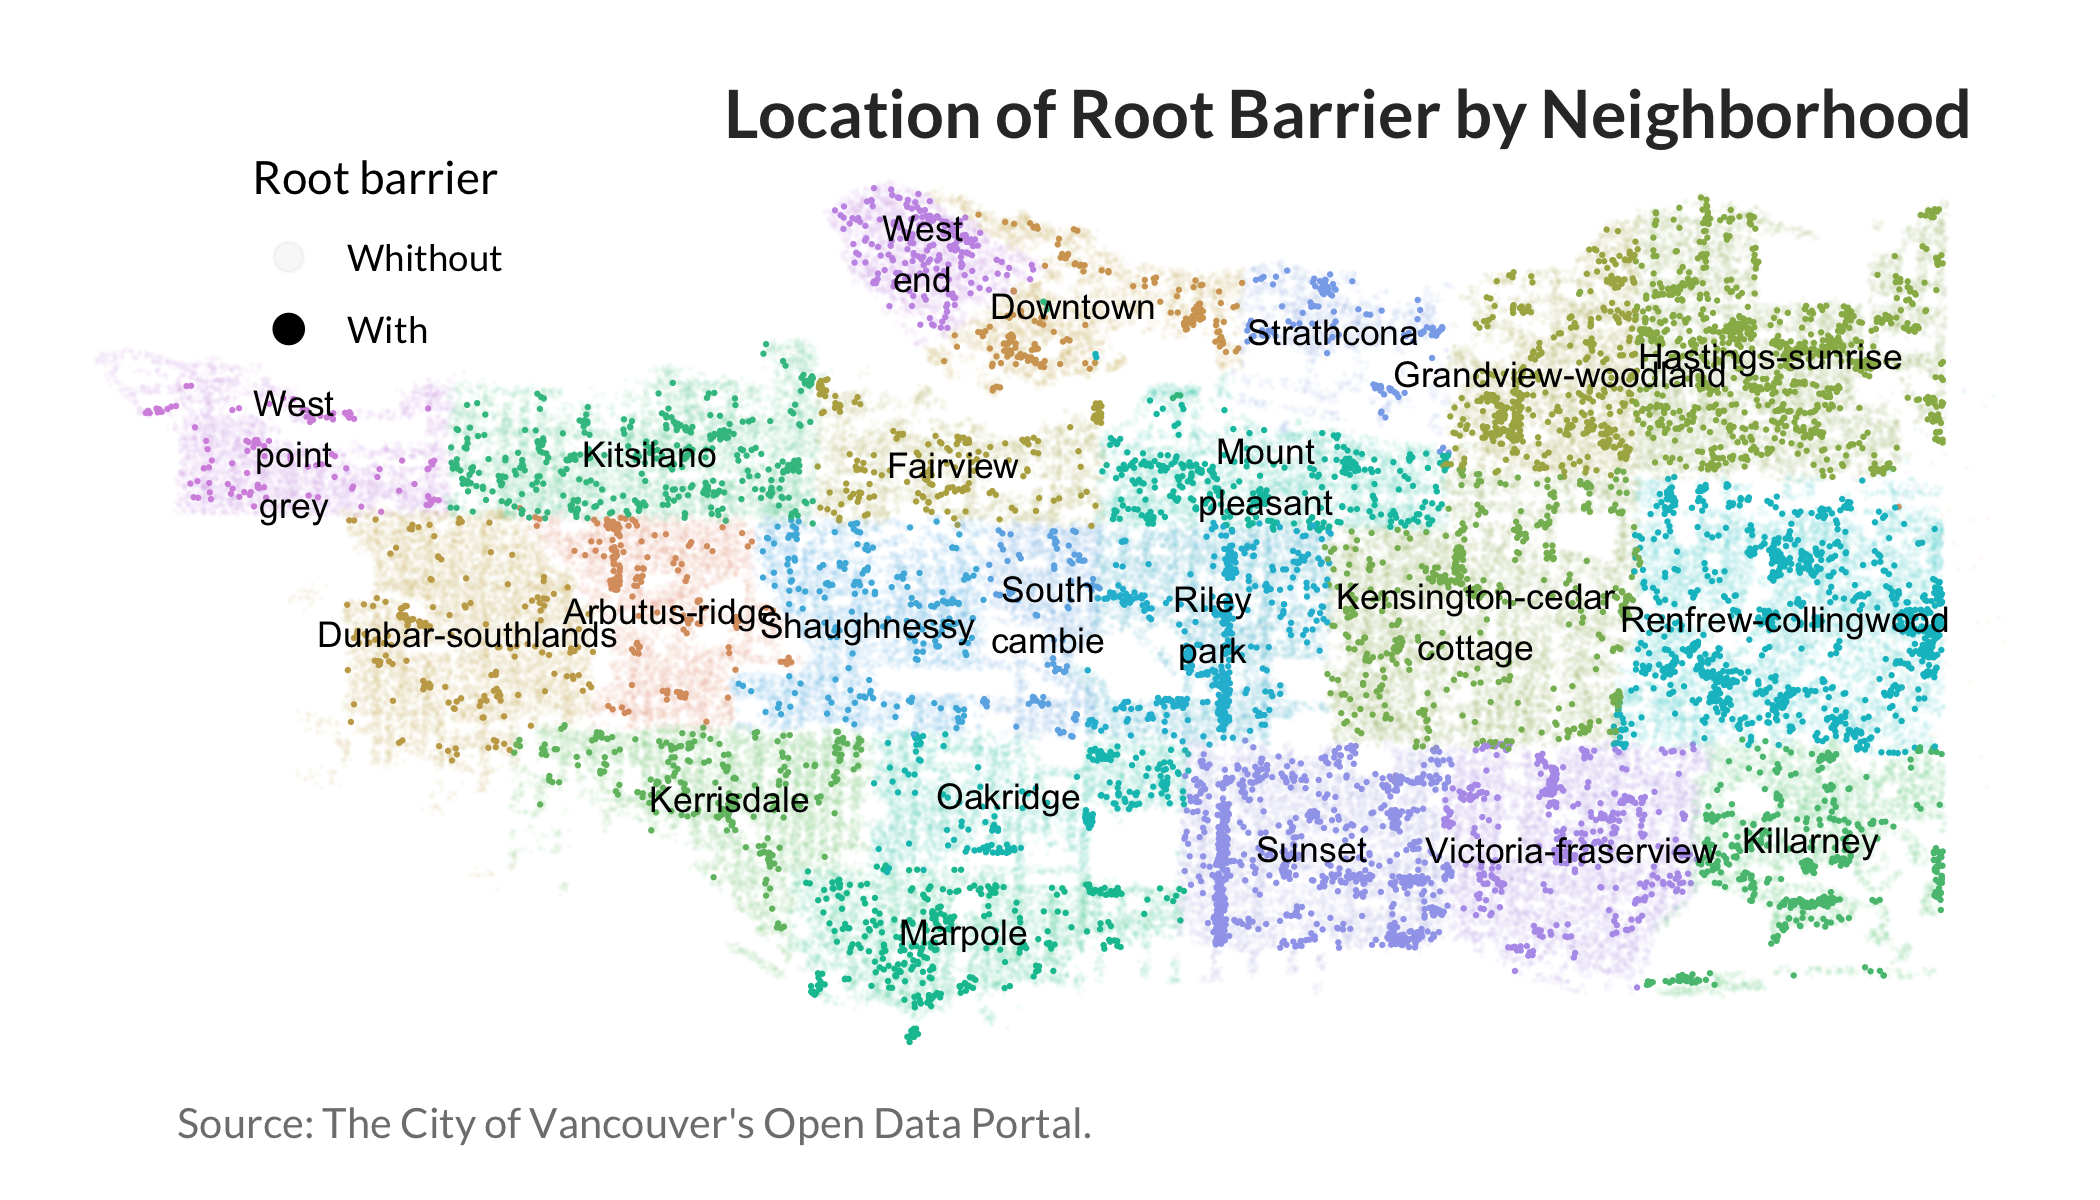
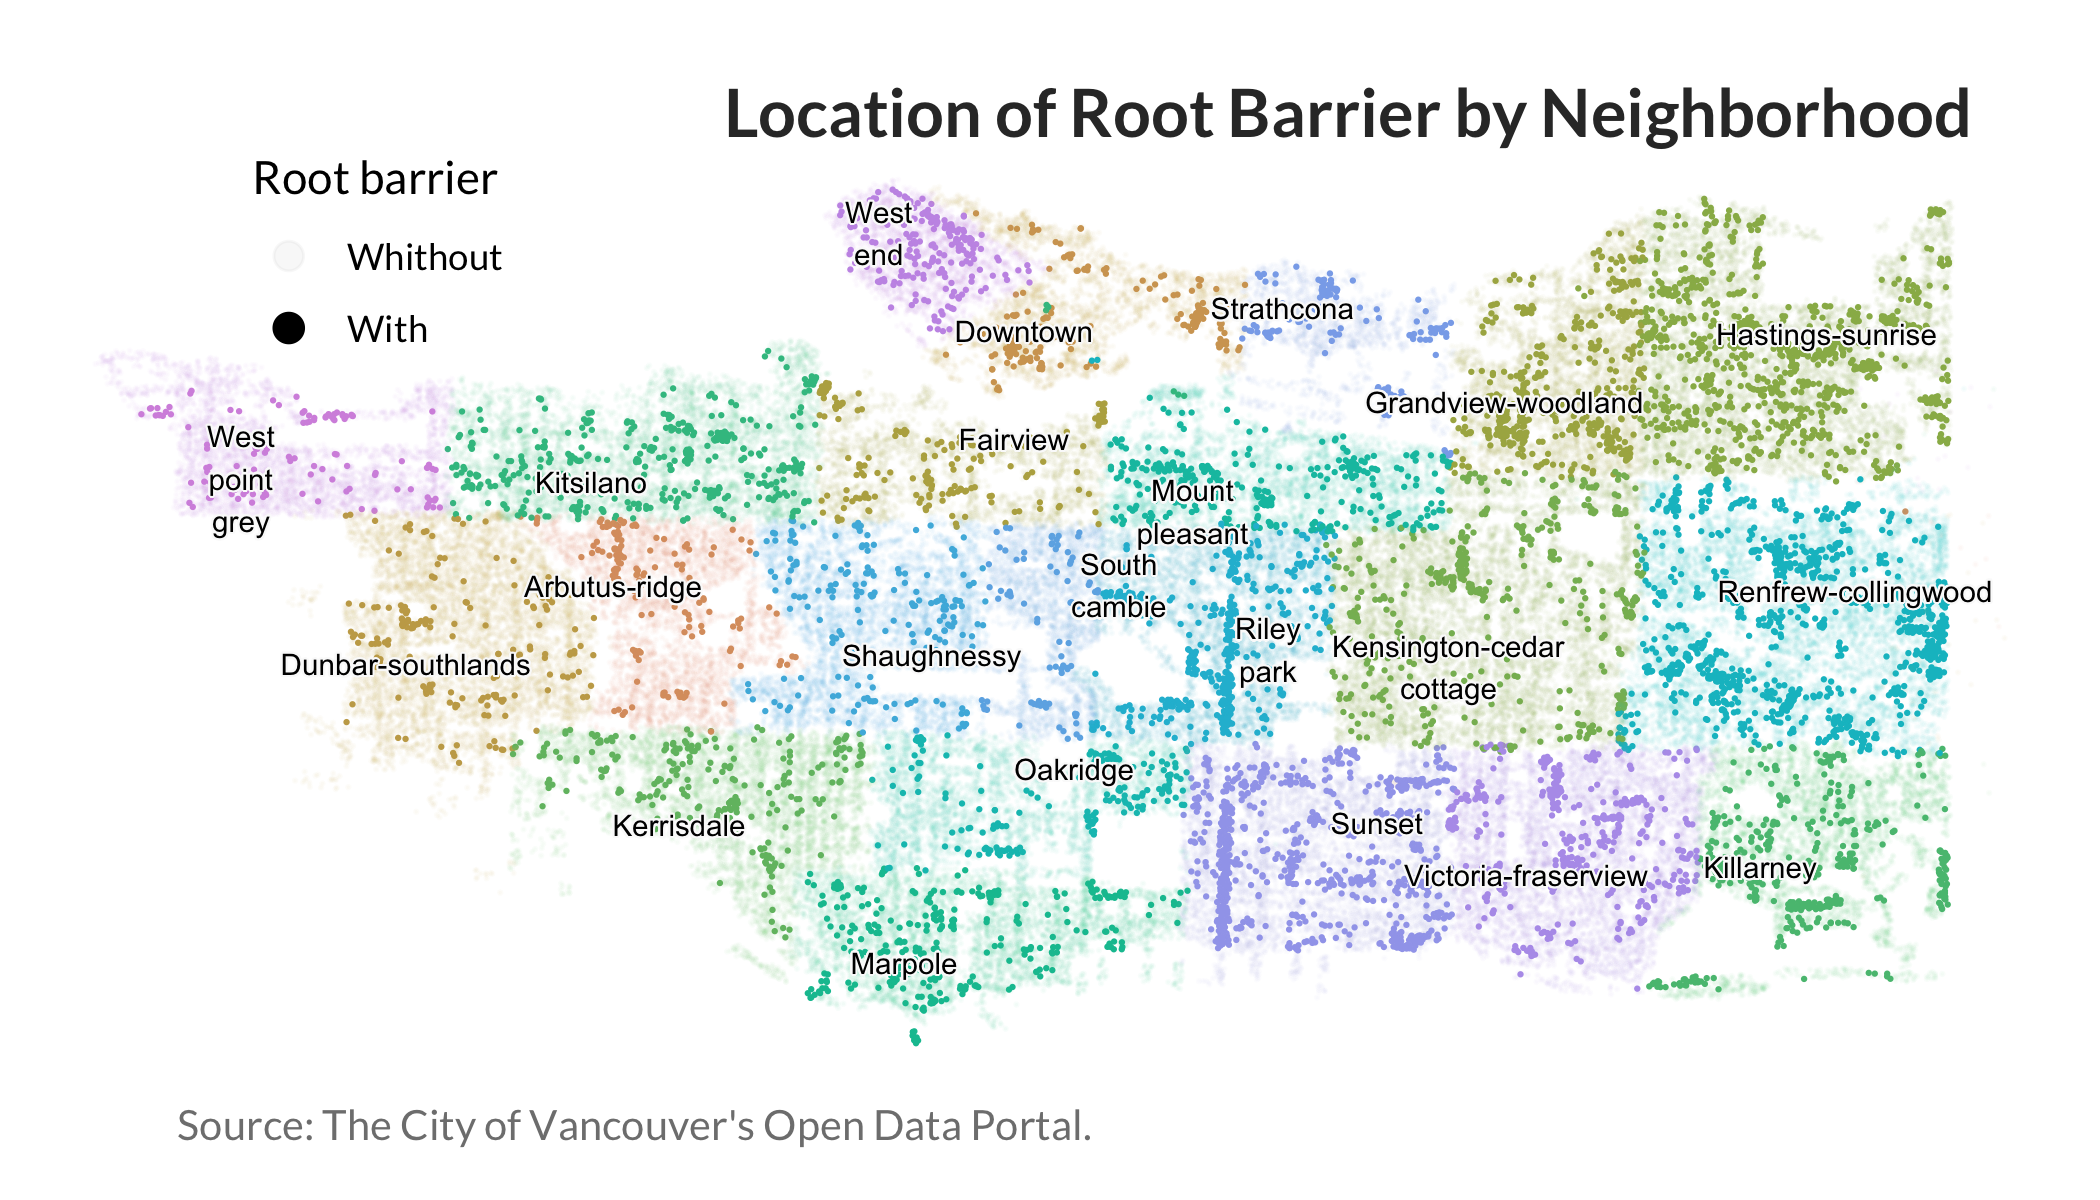
Update

diff --git a/mini-project-2/mini-project-2.md b/mini-project-2/mini-project-2.md
@@ -73,6 +73,7 @@ library(tidyverse)
 library(scales)
 library(ggdist)
 library(ggridges)
+library(ggrepel)
 
 # Own functions
 mi_tema <- function (...) {
@@ -446,13 +447,17 @@ vancouver_trees %>%
              stroke = 0.5,
              width = 0.0005,
              height = 0.0005) +
-  geom_text(data = . %>% 
-              summarise(longitude = mean(longitude, na.rm = T),
-         latitude = mean(latitude, na.rm = T),
-         .by = neighbourhood_name),
-            aes(label = str_wrap(neighbourhood_name,
-                                 5)),
-            size = 3) +
+  geom_text_repel(data = . %>% 
+                    summarise(longitude = mean(longitude, na.rm = T),
+                              latitude = mean(latitude, na.rm = T),
+                              .by = neighbourhood_name),
+                  aes(label = str_wrap(neighbourhood_name,
+                                       5)),
+                  force = 4,
+                  force_pull = 50,
+                  bg.color = "grey98", # shadow color
+                  bg.r = 0.1,
+                  size = 2.5) +
   scale_colour_hue(h = c(40, 300),
                    c = 60,
                    l = 70,
